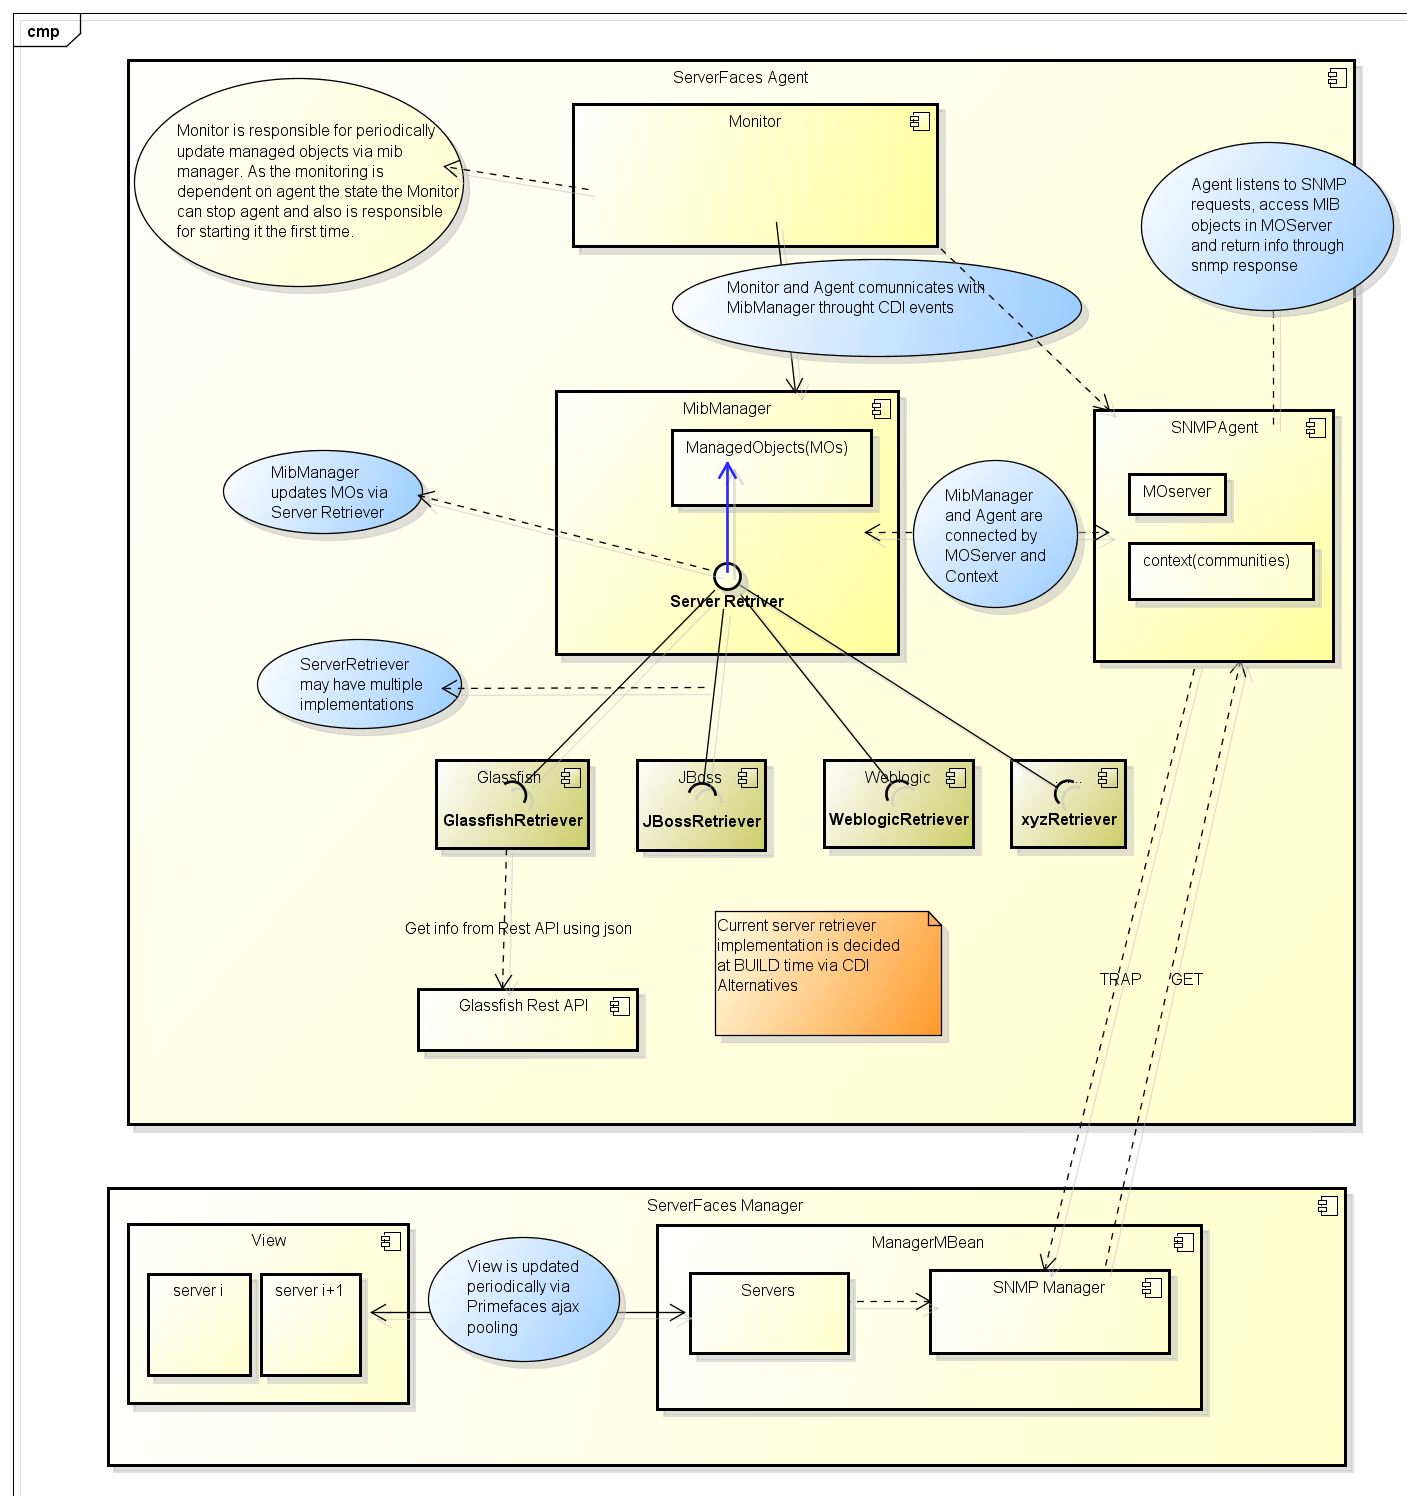
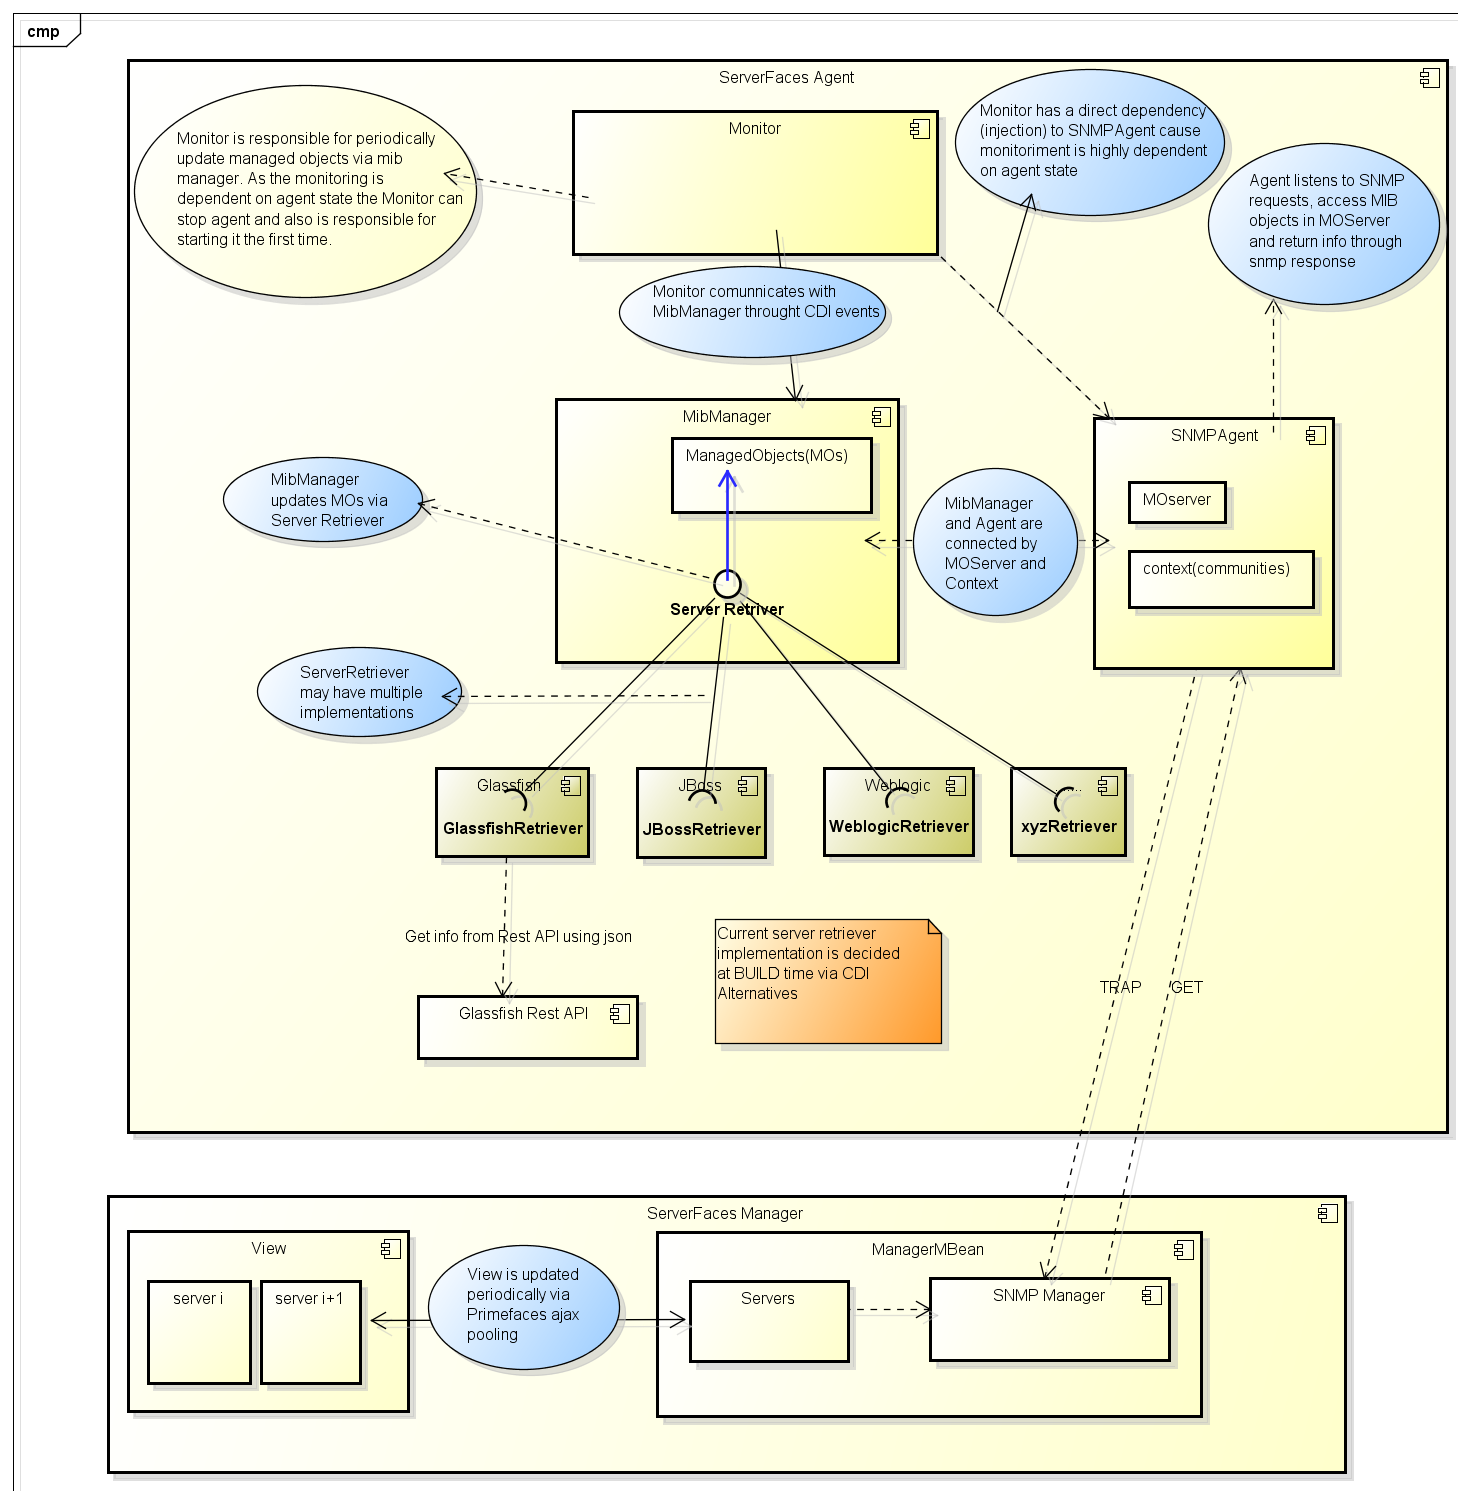
- removed agent events - Monitor now injects the agent cause they are highly dependent - updated component diagram

diff --git a/serverfaces-agent/src/main/java/org/serverfaces/agent/monitoriment/Monitor.java b/serverfaces-agent/src/main/java/org/serverfaces/agent/monitoriment/Monitor.java
@@ -30,18 +30,14 @@ import javax.ejb.Startup;
 import javax.ejb.TransactionAttribute;
 import javax.ejb.TransactionAttributeType;
 import javax.enterprise.event.Event;
-import javax.enterprise.inject.Instance;
 import javax.inject.Inject;
 import org.apache.log4j.Logger;
 import org.serverfaces.agent.SNMPAgent;
 import org.serverfaces.agent.event.InitMibEvent;
-import org.serverfaces.agent.event.StartAgentEvent;
-import org.serverfaces.agent.event.StopAgentEvent;
 import org.serverfaces.agent.event.UpdateMibEvent;
 import org.serverfaces.agent.exception.CouldNotRetrieveDataException;
 import org.serverfaces.agent.util.Constants;
 import org.serverfaces.common.qualifier.Log;
-import org.snmp4j.smi.OctetString;
 
 /**
  *
@@ -57,28 +53,22 @@ public class Monitor {
     @Log
     Logger log;
     @Inject
-    private Event<StartAgentEvent> startAgent;
-    @Inject
-    private Event<StopAgentEvent> stopAgent;
+    SNMPAgent agent;
     @Inject
     Event<UpdateMibEvent> updateMib;
-    
     @Inject
-    Instance<Boolean> agentRunning;
-
+    Event<InitMibEvent> initMib;
+    
     @PostConstruct
     public void startup() {
         try {
             log.debug("SNMP agent is starting...");
-            //TODO fire CDI event to starup agent
-            startAgent.fire(new StartAgentEvent());
-            
-            // Since BaseAgent registers some MIBs by default we need to unregister
-            // one before we register our own sysDescr.
+            agent.start();
+            initMib.fire(new InitMibEvent(agent.getServer(),agent.getDefaultContext()));
             log.debug("SNMP agent started successfully.");
         } catch (CouldNotRetrieveDataException retrieveEX) {
             log.error("Agent is going to be stopped due to the following error:" + retrieveEX.getMessage() + ".\nYou can try to resolve the problem and start agent later via web interface");
-            stopAgent.fire(new StopAgentEvent());
+            this.terminate();
         } catch (Exception ex) {
             log.error("Could not start SNMP Agent due to the following error:" + ex.getMessage());
             this.terminate();
@@ -92,14 +82,13 @@ public class Monitor {
     @PreDestroy
     public void terminate() {
         log.debug("Stopping SNMP agent...");
-        //TODO fire CDI event to stop agent
-         stopAgent.fire(new StopAgentEvent());
+        agent.stop();
         log.debug("SNMP Agent stopped successfully.");
     }
 
     @Schedule(hour = "*", minute = "*", second = Constants.MONITORING_INTERVAL)
     public void doMonitoring() {
-        if (!agentRunning.get()) {
+        if (!agent.isRunning()) {
             log.debug("Nothing to monitor, Agent is not started.");
             return;
         }

diff --git a/serverfaces-agent/src/main/java/org/serverfaces/agent/SNMPAgent.java b/serverfaces-agent/src/main/java/org/serverfaces/agent/SNMPAgent.java
@@ -25,18 +25,12 @@ import java.io.IOException;
 import java.io.Serializable;
 import javax.annotation.PostConstruct;
 import javax.enterprise.event.Event;
-import javax.enterprise.event.Observes;
-import javax.enterprise.event.Reception;
 import javax.enterprise.inject.Instance;
 import javax.enterprise.inject.Produces;
 import javax.inject.Inject;
 import javax.inject.Singleton;
 import org.apache.log4j.Logger;
 import org.serverfaces.agent.event.InitMibEvent;
-import org.serverfaces.agent.event.StartAgentEvent;
-import org.serverfaces.agent.event.StopAgentEvent;
-import org.serverfaces.agent.event.UnregisterMOsEvent;
-import org.serverfaces.agent.mib.MibManager;
 import org.serverfaces.common.qualifier.Log;
 
 import org.snmp4j.TransportMapping;
@@ -75,11 +69,6 @@ public class SNMPAgent extends BaseAgent implements Serializable {
     @Inject
     private String agentAddress;
     @Inject @Log Logger log;
-    @Inject
-    Event<InitMibEvent> initMib;
-    @Inject
-    Instance<MOGroup> defaultMoGroup;
-    
     
 
     public SNMPAgent() {
@@ -157,7 +146,7 @@ public class SNMPAgent extends BaseAgent implements Serializable {
      */
     @Override
     protected void unregisterManagedObjects() {
-        //this.unregisterManagedObject(defaultMoGroup.get());
+        
     }
 
     /**
@@ -204,26 +193,15 @@ public class SNMPAgent extends BaseAgent implements Serializable {
         run();
         sendColdStartNotification();
         this.setDefaultContext(new OctetString("public"));
+        this.unregisterManagedObject(getSnmpv2MIB());
     }
     
-    public void starAgentEvent(@Observes StartAgentEvent startAgentEvent) throws IOException{
-        this.start();
-        initMib.fire(new InitMibEvent(this.getServer(), this.getDefaultContext()));
-        
-    }
-    
-//    public void stopAgentEvent(@Observes(notifyObserver= Reception.IF_EXISTS) StopAgentEvent stopAgentEvent){
-//        if (this.getSession() != null) {
-//            this.stop();
-//        }
-//    }
 
     @Override
     protected void registerSnmpMIBs() {
 //        super.registerSnmpMIBs();
     }
     
-
     /**
      * Clients can register the MO they need
      */

diff --git a/serverfaces-agent/src/main/java/org/serverfaces/agent/mib/MibManager.java b/serverfaces-agent/src/main/java/org/serverfaces/agent/mib/MibManager.java
@@ -34,6 +34,7 @@ import org.apache.log4j.Logger;
 import org.serverfaces.agent.event.InitMibEvent;
 import org.serverfaces.agent.event.UnregisterMOsEvent;
 import org.serverfaces.agent.event.UpdateMibEvent;
+import org.serverfaces.agent.exception.CouldNotRetrieveDataException;
 import org.serverfaces.agent.mo.MOScalarFactory;
 import org.serverfaces.agent.qualifier.Oid;
 import org.serverfaces.agent.server.ServerRetriever;
@@ -180,14 +181,17 @@ public class MibManager implements Serializable, MOGroup {
             
             this.registerMOs();
         } catch (DuplicateRegistrationException ex) {
-            log.debug("trying to register duplicate object");
+            log.debug("Could not register MIB object due to the following error:"+ex.getMessage());
             if(log.isDebugEnabled()){
                   ex.printStackTrace();
             }
+        } catch (CouldNotRetrieveDataException cne){
+             log.debug("Could not register MIB object due to the following error:"+cne.getMessage());
+             if(log.isDebugEnabled()){
+                  cne.printStackTrace();
+            }
+                throw cne;
         }
-         catch(Exception ex){
-             ex.printStackTrace();
-         }
         log.debug("MIB objects registered successfully");
     }
     
@@ -355,11 +359,6 @@ public class MibManager implements Serializable, MOGroup {
     
     public OID getServerAvgResponseTime() {
         return serverAvgResponseTime.get();
-    }
-
-    @Produces
-    public MOGroup produceDefaultMoGroup(){
-        return this;
     }
    
 }

diff --git a/serverfaces-agent/src/test/java/org/serverfaces/agent/test/TestAgent.java b/serverfaces-agent/src/test/java/org/serverfaces/agent/test/TestAgent.java
@@ -88,6 +88,9 @@ public class TestAgent {
     Instance<OID> serverLog;    //same as -> new OID(".1.3.6.1.2.1.1.16.0")
     @Inject
     Instance<OID> serverApplications;    //same as -> new OID(".1.3.6.1.2.1.1.17")
+    
+    @Inject 
+    Instance<Boolean> agentIsRunning;
 
     @Deployment
     public static Archive<?> createTestArchive() {
@@ -216,7 +219,7 @@ public class TestAgent {
     
     @Test
     public void getServerApplicationsResultNotNullAndExistingObject() throws IOException {
-         
+         Assert.fail();
     }
 
     /**
@@ -227,6 +230,11 @@ public class TestAgent {
      */
     private void validateSNMPGet(Object getResult) {
         /**
+         * agent must be running to tests pass
+         */
+        Assert.assertTrue(agentIsRunning.get());
+        
+        /**
          * result null usually occours when manager couldn't reach agent
          */
         Assert.assertNotNull(getResult);
@@ -235,6 +243,7 @@ public class TestAgent {
          * doesnt exist in the mib(its not managed by the agent)
          */
         Assert.assertNotSame(NO_SUCH_OBJECT, getResult);
+        
 
     }
 }

diff --git a/serverfaces-agent/src/main/java/org/serverfaces/agent/util/SimpleSNMPManager.java b/serverfaces-agent/src/main/java/org/serverfaces/agent/util/SimpleSNMPManager.java
@@ -5,9 +5,6 @@
 package org.serverfaces.agent.util;
 
 import java.io.IOException;
-import java.net.InetAddress;
-import java.util.logging.Level;
-import java.util.logging.Logger;
 import javax.annotation.PostConstruct;
 import javax.enterprise.inject.Instance;
 import javax.inject.Inject;
@@ -22,7 +19,6 @@ import org.snmp4j.smi.Address;
 import org.snmp4j.smi.GenericAddress;
 import org.snmp4j.smi.OID;
 import org.snmp4j.smi.OctetString;
-import org.snmp4j.smi.UdpAddress;
 import org.snmp4j.smi.Variable;
 import org.snmp4j.smi.VariableBinding;
 import org.snmp4j.transport.DefaultUdpTransportMapping;
